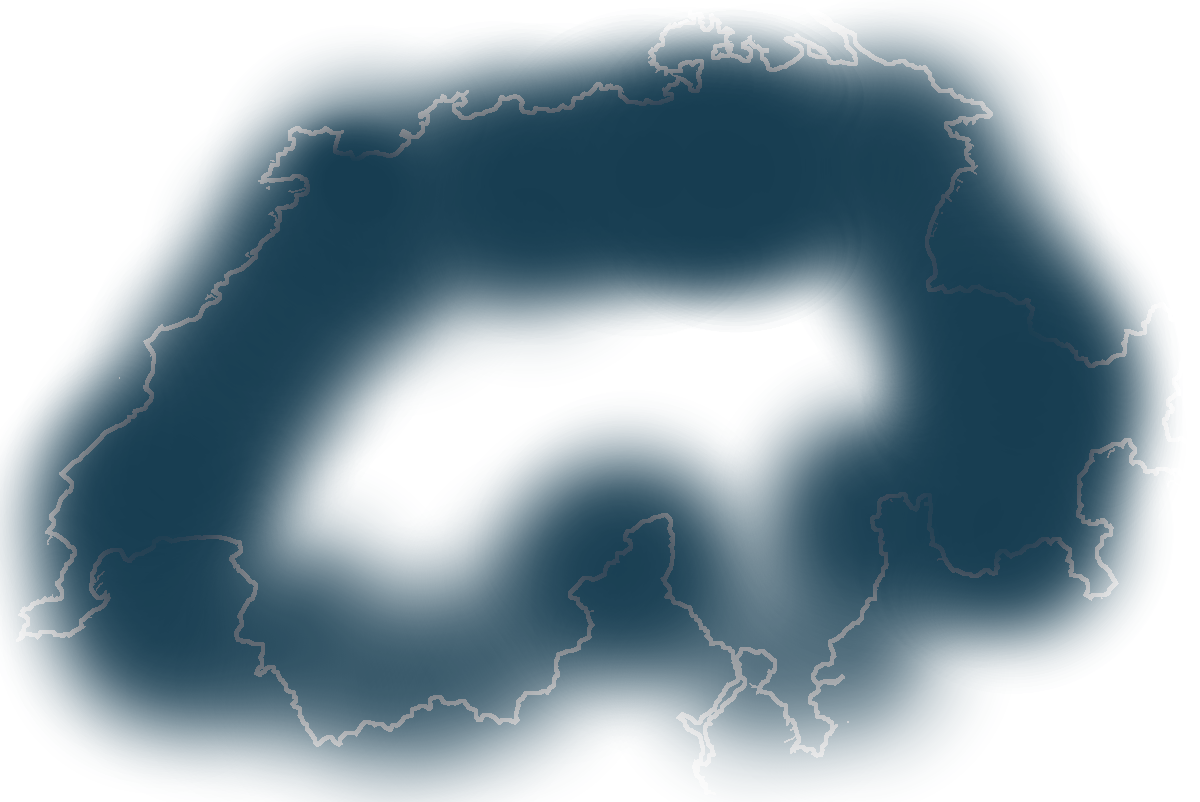
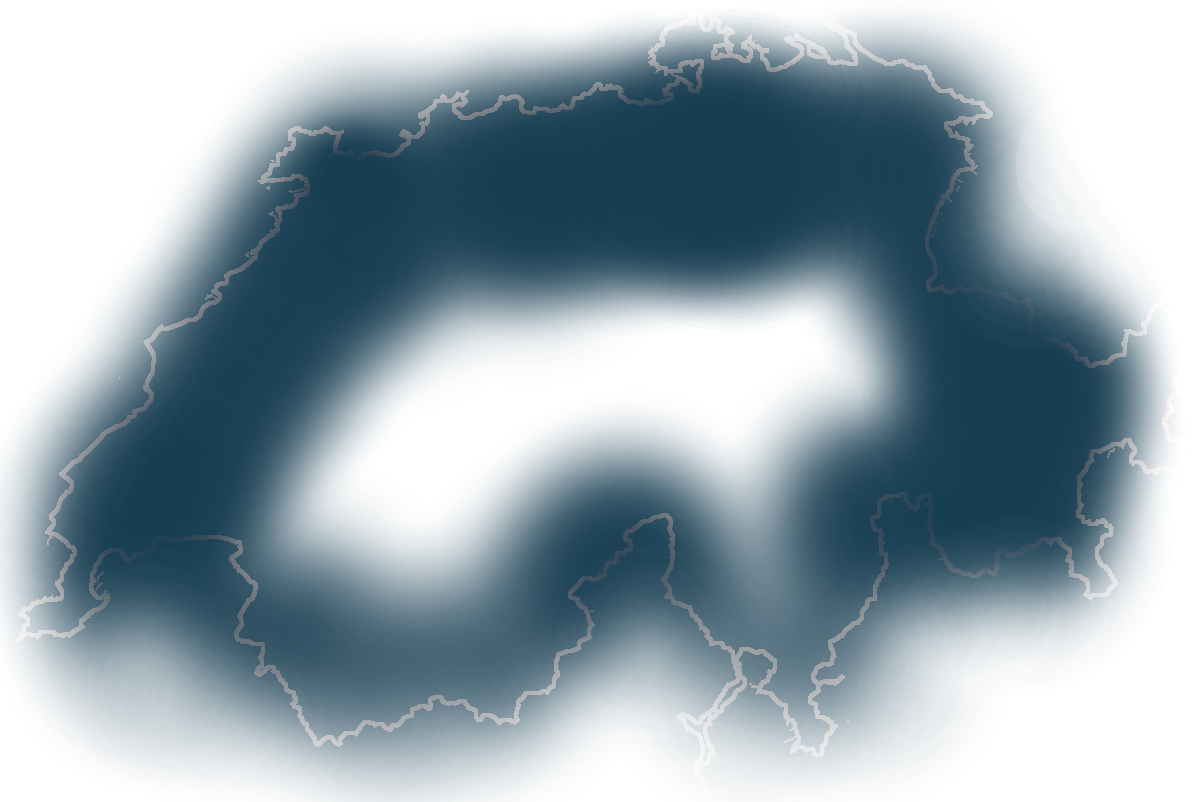
test planet design

diff --git a/src/app/main-content/main-content.component.ts b/src/app/main-content/main-content.component.ts
@@ -2,21 +2,37 @@ import { Component, OnInit } from '@angular/core';
 import { DataToggleComponent } from '../data-toggle/data-toggle.component';
 import { MapComponent } from '../map-display/map/map.component';
 import { TempDisplaysComponent } from '../temp-displays/temp-displays.component';
+import { DataDisplayService } from '../services/data-display.service';
+import { CommonModule } from '@angular/common';
+import { Subscription } from 'rxjs';
+import { MapDashboardComponent } from '../map-dashboard/map-dashboard.component';
+import { TableDashboardComponent } from '../table-dashboard/table-dashboard.component';
 
 @Component({
   selector: 'app-main-content',
   standalone: true,
-  imports: [ DataToggleComponent,MapComponent, TempDisplaysComponent],
+  imports: [CommonModule ,DataToggleComponent,MapComponent, TempDisplaysComponent, MapDashboardComponent, TableDashboardComponent],
   templateUrl: './main-content.component.html',
   styleUrls: ['./main-content.component.scss']
 })
 export class MainContentComponent implements OnInit {
+  public displayMode: 'current' | 'dayAverage' | 'monthAverage' = 'current';
+  private subscriptions: Subscription[] = [];
 
-  constructor() { // Füge den TemperatureService zum Konstruktor hinzu
+
+  constructor(private dataDisplayService: DataDisplayService) { 
+    
   }
-
+  
   ngOnInit(): void {
-
+    
+    // Abonniere den Anzeigemodus
+    this.subscriptions.push(
+      this.dataDisplayService.getDisplayMode().subscribe(mode => {
+        this.displayMode = mode;
+        //console.log('toggle',this.displayMode);
+            })
+          );
 
   }
 }

diff --git a/src/app/map-display/map/map.component.html b/src/app/map-display/map/map.component.html
@@ -1,14 +1,15 @@
 <!-- map.component.html< -->
 
   <div class="map-container" #mapContainer>
-    <!-- <img src="./assets/img/maps/swissmap_frame.png" alt="Base Map" class="frame-layer"> -->
+    <img src="./assets/img/maps/swissmap_frame.png" alt="Base Map" class="map frame-layer">
     <img src="./assets/img/maps/swissmap_cold.png" alt="Cold Map" class="map map-layer" #coldMap>
     <img src="./assets/img/maps/swissmap_cool.png" alt="Cool Map" class="map map-layer" #coolMap>
     <img src="./assets/img/maps/swissmap_warm.png" alt="Warm Map" class="map map-layer" #warmMap>
     <img src="./assets/img/maps/swissmap_hot.png" alt="Hot Map" class="map map-layer" #hotMap>
     <img src="./assets/img/maps/swissmap_veryhot.png" alt="Very Hot Map" class="map map-layer" #veryHotMap>
     <img src="./assets/img/maps/swissmap_topLayer.png" alt="Base Map" class="top-layer">
-    <!-- <img src="./assets/img/maps/swissmap_shadow.png" alt="Base Map" class="shadow-layer"> -->
+    <!-- <img src="./assets/img/maps/swissmap_topLayer.png" alt="Base Map" class="top-layer"> -->
+    <img src="./assets/img/maps/swissmap_shadow.png" alt="Base Map" class="shadow-layer">
   
     <app-local-marker [mapDisplayData]="mapDisplayData"></app-local-marker>
   </div>

diff --git a/src/app/main-content/main-content.component.scss b/src/app/main-content/main-content.component.scss
@@ -1,11 +1,54 @@
-.main-content{
-    width: 100%;
+.main-content {
+    width: 100vw;
+    height: 100%;
     display: flex;
     align-items: center;
     flex-direction: column;
+    position: relative;
+    background-repeat: no-repeat;
+    background-attachment: fixed;
+    background-size: cover;
 
-    >.inner-content{
-        width: 94vw;
+
+  
+  
+    
+    .retro-bg {
+        position: absolute;
+        bottom: 0;
+        left: 0;
+        width: 100%;
+        height: 100%;
+        object-fit: cover;
+        z-index: 1;
+
+        @media (max-width: 1000px) {
+            height: 50%;
+            top: 10%;
         
+        }
     }
+
+    .inner-content {
+        position: relative;
+        width: 94vw;
+        z-index: 2;
+    }
+
+
+
+
 }
+
+.bg-blue{
+    background: rgb(132,214,227);
+    background: linear-gradient(165deg, rgba(132,214,227,1) 0%, rgba(61,120,137,1) 24%, rgba(45,100,118,1) 34%, rgba(0,40,61,1) 67%);
+}
+
+.bg-purple{
+    background: rgb(77,117,165);
+    background: linear-gradient(90deg, rgba(77,117,165,1) 0%, rgba(95,65,131,1) 88%);
+}
+
+
+

diff --git a/src/app/data-toggle/data-toggle.component.html b/src/app/data-toggle/data-toggle.component.html
@@ -1,11 +1,11 @@
 <section>
   <div>
-    <button (click)="setMode('current')">Aktuelle Temperaturen</button>
-    <button (click)="setMode('dayAverage')">letzte 24h Schnitt</button>
-    <button (click)="setInitMonthData()">Monats Durschnitt</button>
+    <button [ngClass]="{'btn-on': displayMode === 'current'}" (click)="setMode('current')">Aktuelle Temperaturen</button>
+    <button [ngClass]="{'btn-on': displayMode === 'dayAverage'}" (click)="setMode('dayAverage')">letzte 24h Schnitt</button>
+    <button [ngClass]="{'btn-on': displayMode === 'monthAverage'}" (click)="setInitMonthData()">Monats Durschnitt</button>
 
     @if(displayMode === 'monthAverage'){
-      <div class="menu">
+      <div [ngClass]="{'btn-on': displayMode === 'monthAverage'}" class="menu">
         <div>
   
           <select id="yearSelect" (change)="onYearChange($event)" [value]="selectedYear">

diff --git a/src/app/data-toggle/data-toggle.component.scss b/src/app/data-toggle/data-toggle.component.scss
@@ -6,12 +6,10 @@ section{
         display: flex;
         
         >button, .menu{
-            //height: 2vw;
             width: 25%;
-            
             margin-right: 2%;
-            background: rgba(255, 255, 255, 0.17);
             border-radius: 8px;
+            background: rgba(255, 255, 255, 0.17);
             box-shadow: 0 4px 30px rgba(0, 0, 0, 0.1);
             backdrop-filter: blur(5px);
             -webkit-backdrop-filter: blur(5px);
@@ -19,8 +17,17 @@ section{
             color: white;
             font-size: clamp(14px, 1vw, 18px);
             margin-bottom: 32px;
-            
+
+            &:hover{
+                background: rgba(255, 255, 255, 0.25);
+            }
         }
+        
+        .btn-on{
+            background-color: #fb901d;
+        }
+
+
         
         .menu{
             display: flex;

diff --git a/src/styles.scss b/src/styles.scss
@@ -14,10 +14,23 @@ body {
   max-width: 100%;
   min-height: 100vh; // Ensures the background covers the entire viewport height
   overflow-x: hidden; // Prevent horizontal scrollbars
-  background: linear-gradient(170deg, #5a88d9 10%, #5a88d9 5%, #52bef7 40%, #00283d 100%);
-  background-repeat: no-repeat;
-  background-attachment: fixed;
-  background-size: cover;
+
+
+
+  // background: rgb(77,117,165);
+  // background: linear-gradient(90deg, rgba(77,117,165,1) 0%, rgba(95,65,131,1) 88%);
+
+  // background: rgb(132,214,227);
+  // background: linear-gradient(165deg, rgba(132,214,227,1) 0%, rgba(61,120,137,1) 24%, rgba(45,100,118,1) 34%, rgba(0,40,61,1) 67%);
+
+
+
+  // background-repeat: no-repeat;
+  // background-attachment: fixed;
+  // background-size: cover;
+
+
+  
 }
 
 /* Hide scrollbars in WebKit browsers (Safari, Chrome) */

diff --git a/src/app/table-dashboard/table-dashboard.component.spec.ts b/src/app/table-dashboard/table-dashboard.component.spec.ts
@@ -1,0 +1,23 @@
+import { ComponentFixture, TestBed } from '@angular/core/testing';
+
+import { TableDashboardComponent } from './table-dashboard.component';
+
+describe('TableDashboardComponent', () => {
+  let component: TableDashboardComponent;
+  let fixture: ComponentFixture<TableDashboardComponent>;
+
+  beforeEach(async () => {
+    await TestBed.configureTestingModule({
+      imports: [TableDashboardComponent]
+    })
+    .compileComponents();
+    
+    fixture = TestBed.createComponent(TableDashboardComponent);
+    component = fixture.componentInstance;
+    fixture.detectChanges();
+  });
+
+  it('should create', () => {
+    expect(component).toBeTruthy();
+  });
+});

diff --git a/src/app/map-dashboard/map-dashboard.component.spec.ts b/src/app/map-dashboard/map-dashboard.component.spec.ts
@@ -1,0 +1,23 @@
+import { ComponentFixture, TestBed } from '@angular/core/testing';
+
+import { MapDashboardComponent } from './map-dashboard.component';
+
+describe('MapDashboardComponent', () => {
+  let component: MapDashboardComponent;
+  let fixture: ComponentFixture<MapDashboardComponent>;
+
+  beforeEach(async () => {
+    await TestBed.configureTestingModule({
+      imports: [MapDashboardComponent]
+    })
+    .compileComponents();
+    
+    fixture = TestBed.createComponent(MapDashboardComponent);
+    component = fixture.componentInstance;
+    fixture.detectChanges();
+  });
+
+  it('should create', () => {
+    expect(component).toBeTruthy();
+  });
+});

diff --git a/src/app/table/table.component.scss b/src/app/table/table.component.scss
@@ -6,9 +6,10 @@ section{
     align-items: flex-end;
     flex-direction: column;
 
-    // @media (max-width: 1200px) {
-    //     margin-top: 34px;
-    // }
+    @media (max-width: 1000px) {
+        margin-top: 60px;
+        margin-bottom: 150px;
+    }
 
 
     >.table-header {
@@ -46,11 +47,12 @@ section{
 
     >.table{
         width: 100%;
-        height: 33vw;
+        height: 30vw;
+        max-height: 60vh;
         overflow: scroll;
 
         @media (max-width: 1000px){
-            height: auto;
+            height: 50vh;
         }
 
         >#single-city-element{

diff --git a/src/app/main-content/main-content.component.html b/src/app/main-content/main-content.component.html
@@ -1,10 +1,16 @@
-<section class="main-content">
+<section [ngClass]="{'bg-blue': displayMode === 'current' || 'dayAverage', 'bg-purple': displayMode === 'monthAverage'}"  class="main-content">
 
+    <img  class="retro-bg" src="./assets/img/retro2.png" alt="">
     
     <div class="inner-content">
         <app-data-toggle></app-data-toggle>
 
-        <app-temp-displays></app-temp-displays>
+
+        <app-map-dashboard></app-map-dashboard>
+
+
+
+        <!-- <app-temp-displays></app-temp-displays> -->
 
     </div>
     

diff --git a/src/app/table-dashboard/table-dashboard.component.ts b/src/app/table-dashboard/table-dashboard.component.ts
@@ -1,0 +1,12 @@
+import { Component } from '@angular/core';
+
+@Component({
+  selector: 'app-table-dashboard',
+  standalone: true,
+  imports: [],
+  templateUrl: './table-dashboard.component.html',
+  styleUrl: './table-dashboard.component.scss'
+})
+export class TableDashboardComponent {
+
+}

diff --git a/src/app/map-dashboard/map-dashboard.component.ts b/src/app/map-dashboard/map-dashboard.component.ts
@@ -1,0 +1,12 @@
+import { Component } from '@angular/core';
+
+@Component({
+  selector: 'app-map-dashboard',
+  standalone: true,
+  imports: [],
+  templateUrl: './map-dashboard.component.html',
+  styleUrl: './map-dashboard.component.scss'
+})
+export class MapDashboardComponent {
+
+}
